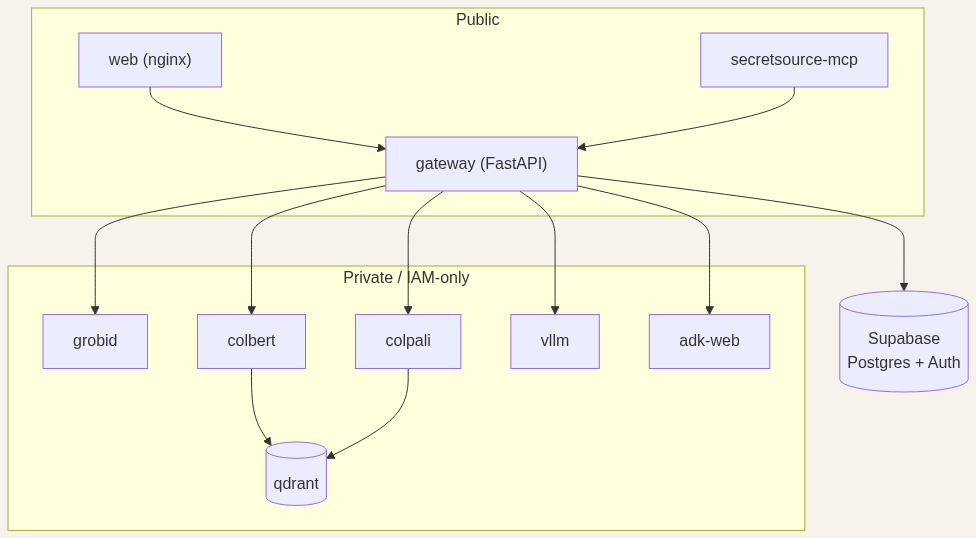
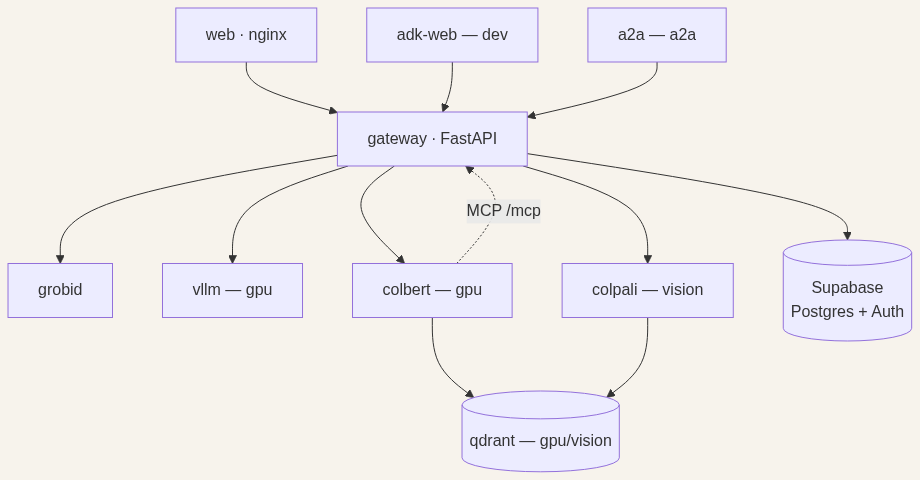
docs: correct agent + deployment diagrams against the code
Ground the two diagrams I'd flagged as best-guess in the actual source:
- Agents (app/agents/team.py): coordinator routes to rag_agent, paper_agent
  (was mislabeled 'source_agent') and verify_agent via transfer_to_agent, and
  calls check_claim as a tool once per paper in parallel (SCRUM-171); load_memory
  searches past analyses; rag_agent uses the ColBERT MCP (search_passages).
- Deployment (docker-compose.yml): real services web/gateway/grobid/colbert/
  colpali/qdrant/vllm/adk-web/a2a with their profiles; removed the non-existent
  'secretsource-mcp'.

diff --git a/docs/diagrams.md b/docs/diagrams.md
@@ -214,25 +214,27 @@ sequenceDiagram
 
 ## 6. Multi-agent architecture
 
+The tree in `backend/app/agents/team.py`: a **coordinator** (root) routes to three specialists
+with `transfer_to_agent`, and calls **check_claim** as a tool once per paper in the same turn so
+several papers are checked in parallel (SCRUM-171). `load_memory` searches past analyses.
+
 ```mermaid
 flowchart TB
-  COORD["Coordinator agent"]
-  subgraph Specialists
-    RAG["rag_agent<br/>retrieve + read sources"]
-    VER["verify_agent<br/>rule on the claim"]
-    SRC["source_agent<br/>find the cited work"]
-  end
-  TOOLS["Retrieval tools<br/>ColBERT · ColPali (MCP)"]
-  MEM[("ADK session / memory<br/>Supabase adk schema")]
-  A2A["A2A server<br/>exposes the agent tree"]
+  COORD["coordinator (root)<br/>routes requests · combines multi-paper checks"]
+  RAG["rag_agent<br/>answer_from_docs · add_paper"]
+  PAP["paper_agent<br/>extract_claims · extract_citations · fetch_source"]
+  VER["verify_agent<br/>verify_claim"]
+  CHK["check_claim (single_turn)<br/>one claim × one paper"]
+  MEM[("Memory service<br/>past analyses · app/memory.py")]
+  MCP["ColBERT MCP<br/>search_passages"]
 
-  COORD -- AgentTool --> RAG
-  COORD -- AgentTool --> VER
-  COORD -- AgentTool --> SRC
-  RAG --> TOOLS
-  SRC --> TOOLS
-  COORD --- MEM
-  A2A --- COORD
+  COORD -- load_memory --> MEM
+  COORD -- transfer_to_agent --> RAG
+  COORD -- transfer_to_agent --> PAP
+  COORD -- transfer_to_agent --> VER
+  COORD -- "tool, once per paper (parallel)" --> CHK
+  RAG --> MCP
+  CHK -. shares verify_claim .-> VER
 ```
 
 ## 7. Analysis lifecycle (state)
@@ -274,27 +276,29 @@ sequenceDiagram
 
 ## 9. Deployment (Docker Compose services)
 
+Docker Compose services (`docker-compose.yml`), labelled with their profile. Default profile =
+`web + gateway + grobid`; the heavy retrieval/LLM services sit behind `gpu` / `vision`; `adk-web`
+and `a2a` are dev/optional.
+
 ```mermaid
 flowchart TB
-  subgraph Public
-    web["web (nginx)"]
-    gateway["gateway (FastAPI)"]
-    mcp["secretsource-mcp"]
-  end
-  subgraph Private["Private / IAM-only"]
-    grobid["grobid"]
-    colbert["colbert"]
-    colpali["colpali"]
-    qdrant[("qdrant")]
-    vllm["vllm"]
-    adkweb["adk-web"]
-  end
+  web["web · nginx"]
+  gateway["gateway · FastAPI"]
+  grobid["grobid"]
+  vllm["vllm — gpu"]
+  colbert["colbert — gpu"]
+  colpali["colpali — vision"]
+  qdrant[("qdrant — gpu/vision")]
+  adkweb["adk-web — dev"]
+  a2a["a2a — a2a"]
   ext[("Supabase<br/>Postgres + Auth")]
 
   web --> gateway
-  gateway --> grobid & colbert & colpali & vllm & adkweb
+  gateway --> grobid & colbert & colpali & vllm
   colbert --> qdrant
   colpali --> qdrant
+  colbert -. MCP /mcp .-> gateway
   gateway --> ext
-  mcp --> gateway
+  adkweb --> gateway
+  a2a --> gateway
 ```
